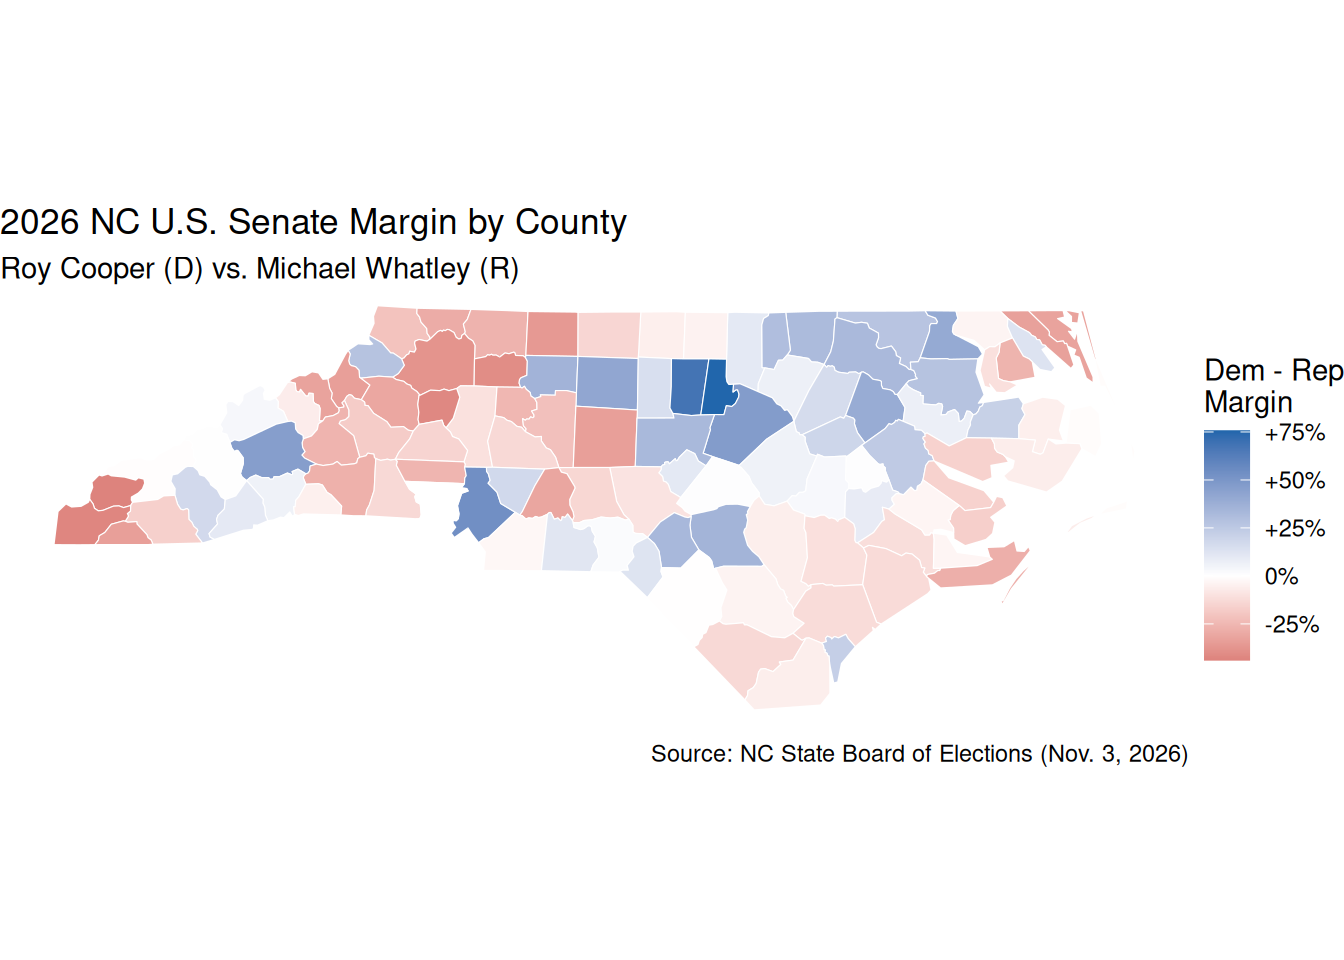
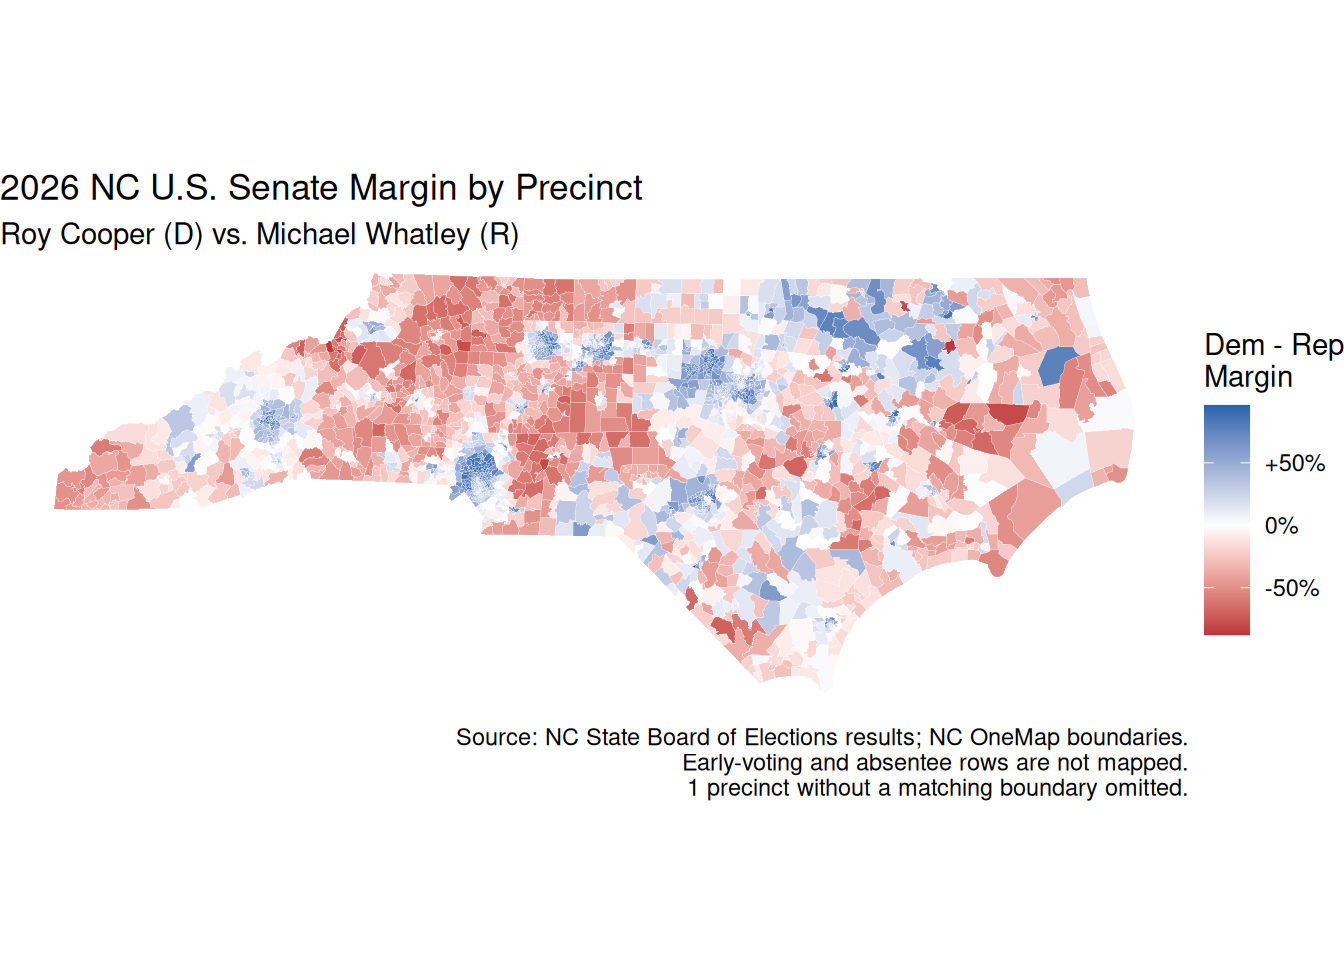
Final

Changed region(s): [[0.0, 0.1875, 0.8438, 0.7188], [0.3438, 0.75, 0.9062, 0.8438], [0.875, 0.3438, 1.0, 0.6875]]

diff --git a/_site/index.html b/_site/index.html
@@ -139,7 +139,7 @@ ul.task-list li input[type="checkbox"] {
 </header>
 
 
-<p>County-level results from the November 3, 2026 U.S. Senate election in North Carolina between Roy Cooper (Democratic) and Michael Whatley (Republican), using precinct data from the North Carolina State Board of Elections.</p>
+<p>Precinct-level results from the November 3, 2026 U.S. Senate election in North Carolina between Roy Cooper (Democratic) and Michael Whatley (Republican), using data from the North Carolina State Board of Elections.</p>
 <div class="cell">
 <div class="cell-output-display">
 <div>
@@ -226,7 +226,7 @@ ul.task-list li input[type="checkbox"] {
     }
       var localhostRegex = new RegExp(/^(?:http|https):\/\/localhost\:?[0-9]*\//);
       var mailtoRegex = new RegExp(/^mailto:/);
-        var filterRegex = new RegExp('/' + window.location.host + '/');
+        var filterRegex = new RegExp("https:\/\/gtillery19\.github\.io\/elections-2026\/");
       var isInternal = (href) => {
           return filterRegex.test(href) || localhostRegex.test(href) || mailtoRegex.test(href);
       }

diff --git a/_site/about.html b/_site/about.html
@@ -217,7 +217,7 @@ ul.task-list li input[type="checkbox"] {
     }
       var localhostRegex = new RegExp(/^(?:http|https):\/\/localhost\:?[0-9]*\//);
       var mailtoRegex = new RegExp(/^mailto:/);
-        var filterRegex = new RegExp('/' + window.location.host + '/');
+        var filterRegex = new RegExp("https:\/\/gtillery19\.github\.io\/elections-2026\/");
       var isInternal = (href) => {
           return filterRegex.test(href) || localhostRegex.test(href) || mailtoRegex.test(href);
       }
